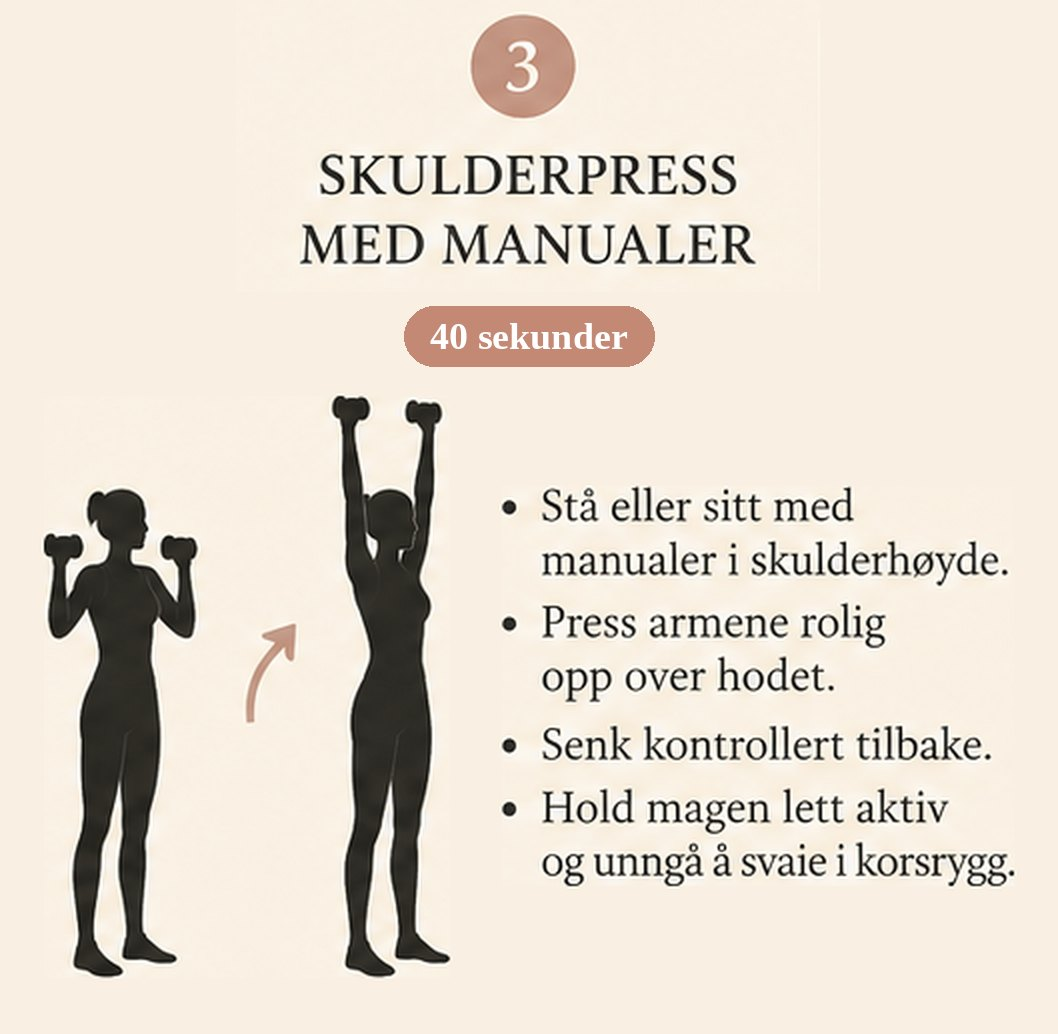
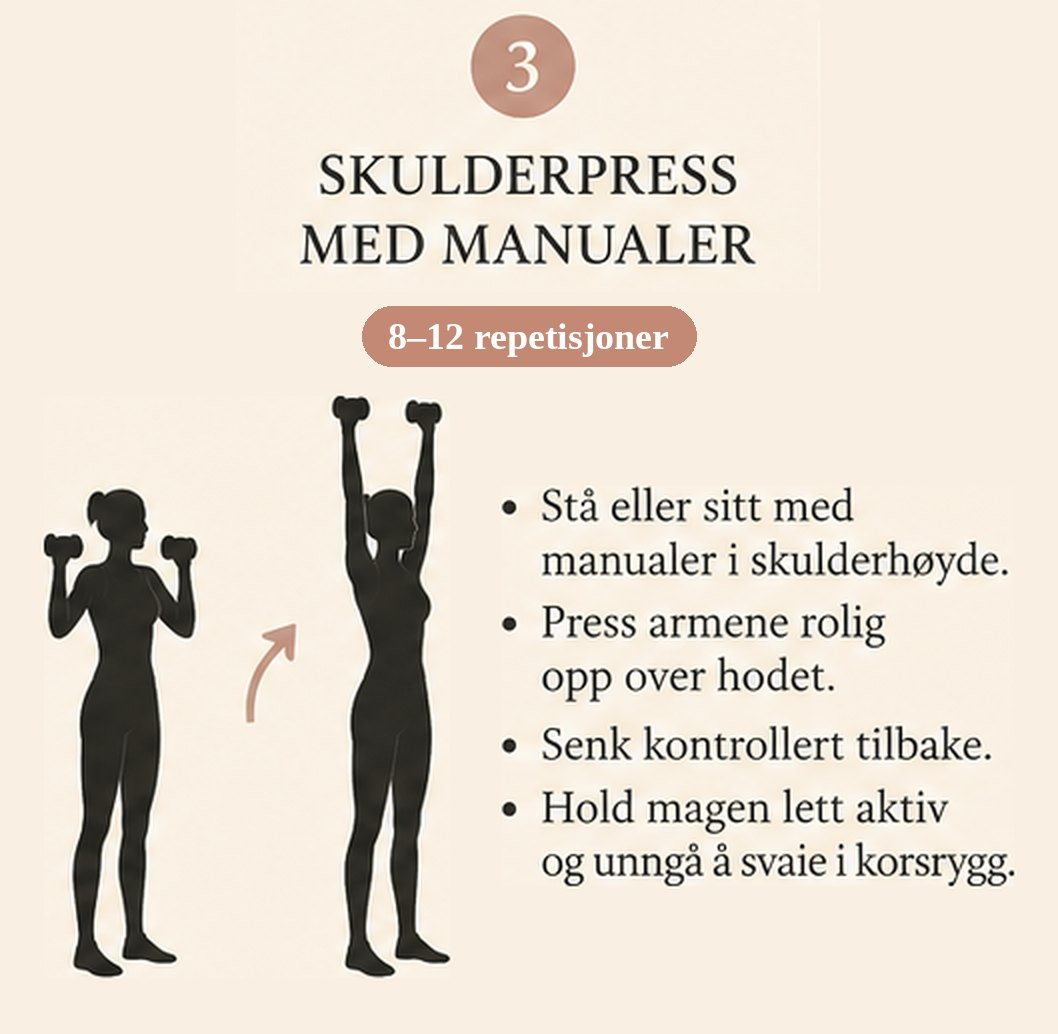
Bruk repetisjoner i stedet for 40 sekunder i 15-minuttersprogrammet
Claude-Session: https://claude.ai/code/session_01X2hqnwX4CpRHrSCx7bqrG2

Changed region(s): [[0.3431, 0.2785, 0.655, 0.3714]]

diff --git a/styrke-hjemme.html b/styrke-hjemme.html
@@ -361,15 +361,15 @@
     <h2>15 minutter: enkel styrke</h2>
     <div class="meta">
       <p><strong>Utstyr:</strong> en stol, en treningsstrikk og lette manualer.</p>
-      <p><strong>Slik gjør du det:</strong> 2 minutter rolig oppvarming, så 2 runder med de fem øvelsene. 40 sekunder arbeid og 20 sekunder til å hvile og bytte. Avslutt med litt rolig tøying.</p>
+      <p><strong>Slik gjør du det:</strong> 2 minutter rolig oppvarming, så 2 runder med de fem øvelsene. Antall repetisjoner står på hver øvelse. Gjør dem rolig og kontrollert, og ta en kort pause når du bytter øvelse. Avslutt med litt rolig tøying.</p>
     </div>
     <p><strong>Oppvarming, ca. 2 min:</strong> Rull skuldrene begge veier og lag store sirkelbevegelser med armene. Bøy deretter overkroppen ned mot gulvet, og la hodet og armene henge fritt i ca. 30 sekunder (eller så lenge det kjennes behagelig).</p>
     <div class="exercise-steps">
-      <img src="images/styrke-15-1-kneboy.jpg?v=3" width="978" height="954" loading="lazy" alt="Knebøy til stol: illustrasjon med silhuetter og forklaring av øvelsen.">
-      <img src="images/styrke-15-2-roing.jpg?v=3" width="1046" height="1002" loading="lazy" alt="Sittende roing med strikk: illustrasjon med silhuetter og forklaring av øvelsen.">
-      <img src="images/styrke-15-3-skulderpress.jpg?v=3" width="1058" height="1034" loading="lazy" alt="Skulderpress med manualer: illustrasjon med silhuetter og forklaring av øvelsen.">
-      <img src="images/styrke-15-4-seteloft.jpg?v=3" width="1084" height="916" loading="lazy" alt="Seteløft (glute bridge): illustrasjon med silhuetter og forklaring av øvelsen.">
-      <img src="images/styrke-15-5-deadbug.jpg?v=3" width="1130" height="988" loading="lazy" alt="Dead bug (mage og kjerne): illustrasjon med silhuetter og forklaring av øvelsen.">
+      <img src="images/styrke-15-1-kneboy.jpg?v=4" width="978" height="954" loading="lazy" alt="Knebøy til stol: illustrasjon med silhuetter og forklaring av øvelsen.">
+      <img src="images/styrke-15-2-roing.jpg?v=4" width="1046" height="1002" loading="lazy" alt="Sittende roing med strikk: illustrasjon med silhuetter og forklaring av øvelsen.">
+      <img src="images/styrke-15-3-skulderpress.jpg?v=4" width="1058" height="1034" loading="lazy" alt="Skulderpress med manualer: illustrasjon med silhuetter og forklaring av øvelsen.">
+      <img src="images/styrke-15-4-seteloft.jpg?v=4" width="1084" height="916" loading="lazy" alt="Seteløft (glute bridge): illustrasjon med silhuetter og forklaring av øvelsen.">
+      <img src="images/styrke-15-5-deadbug.jpg?v=4" width="1130" height="988" loading="lazy" alt="Dead bug (mage og kjerne): illustrasjon med silhuetter og forklaring av øvelsen.">
     </div>
   </section>
 
